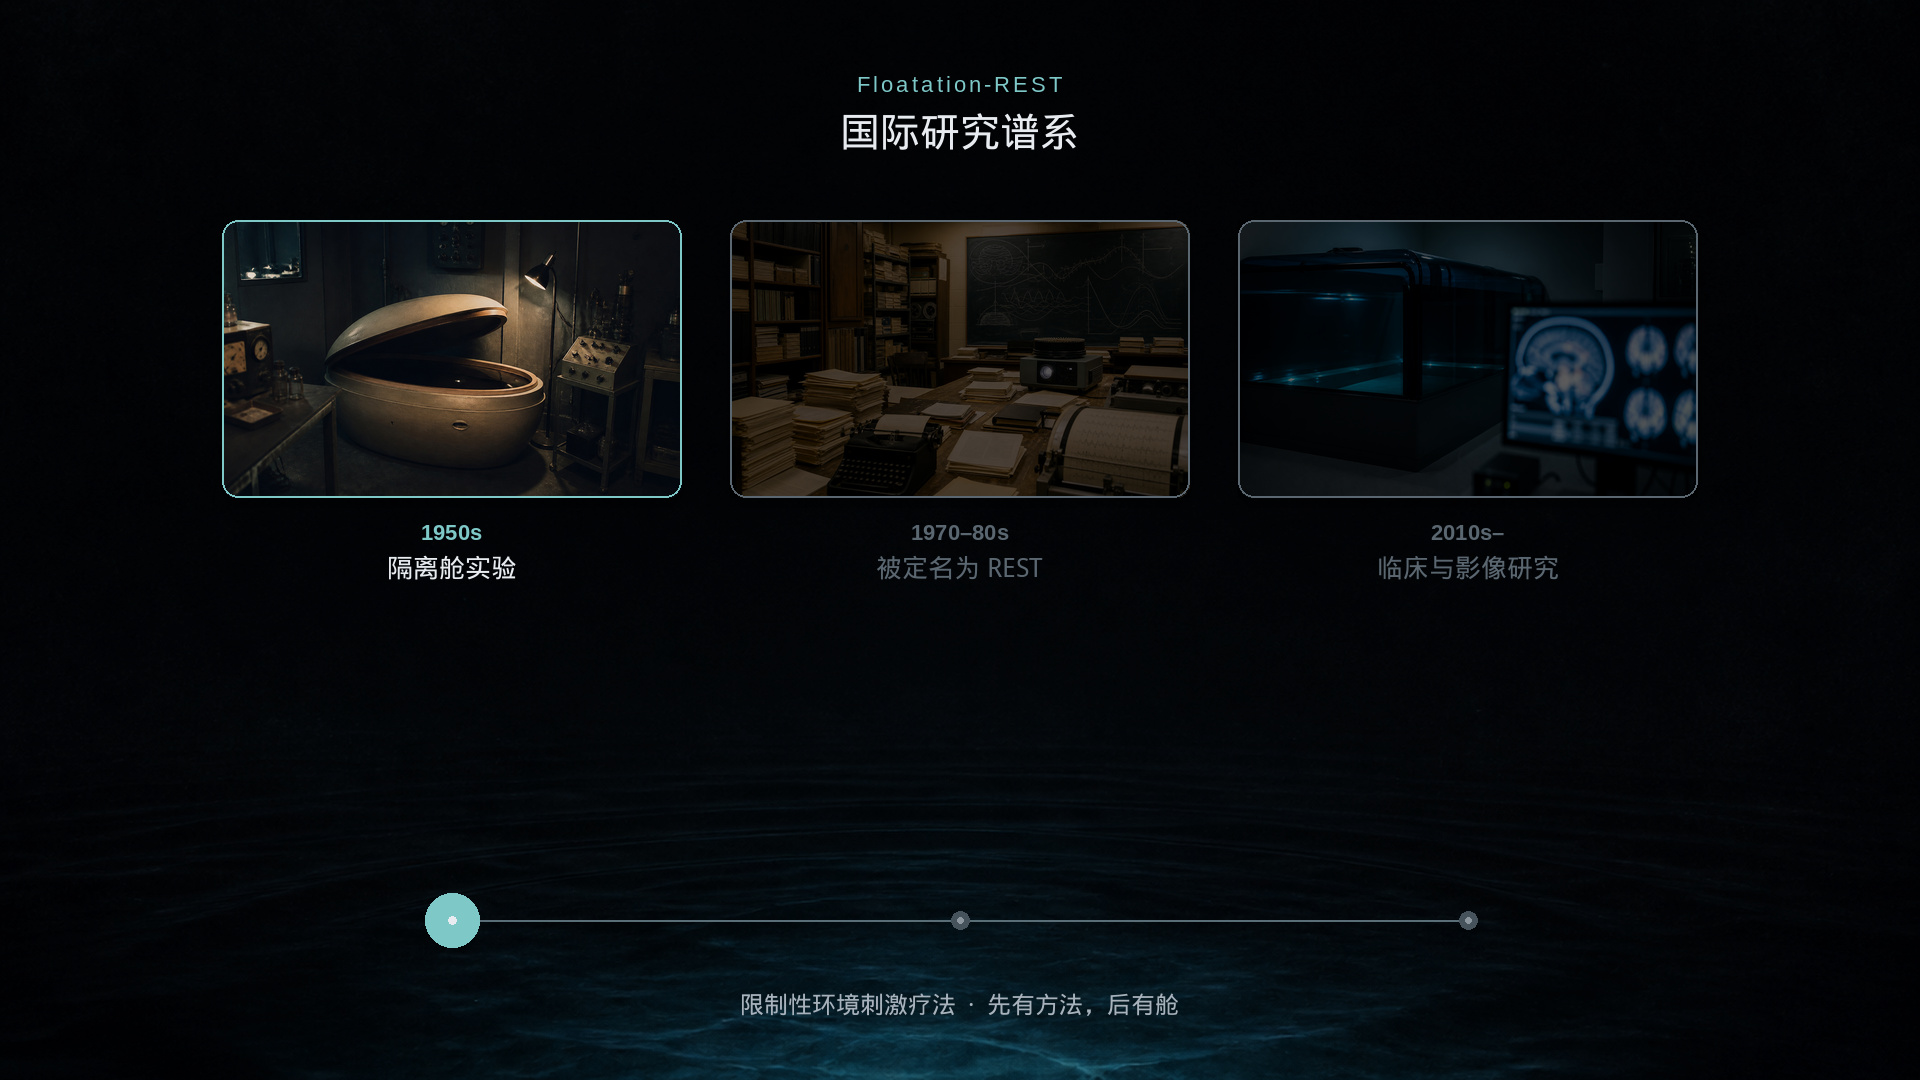
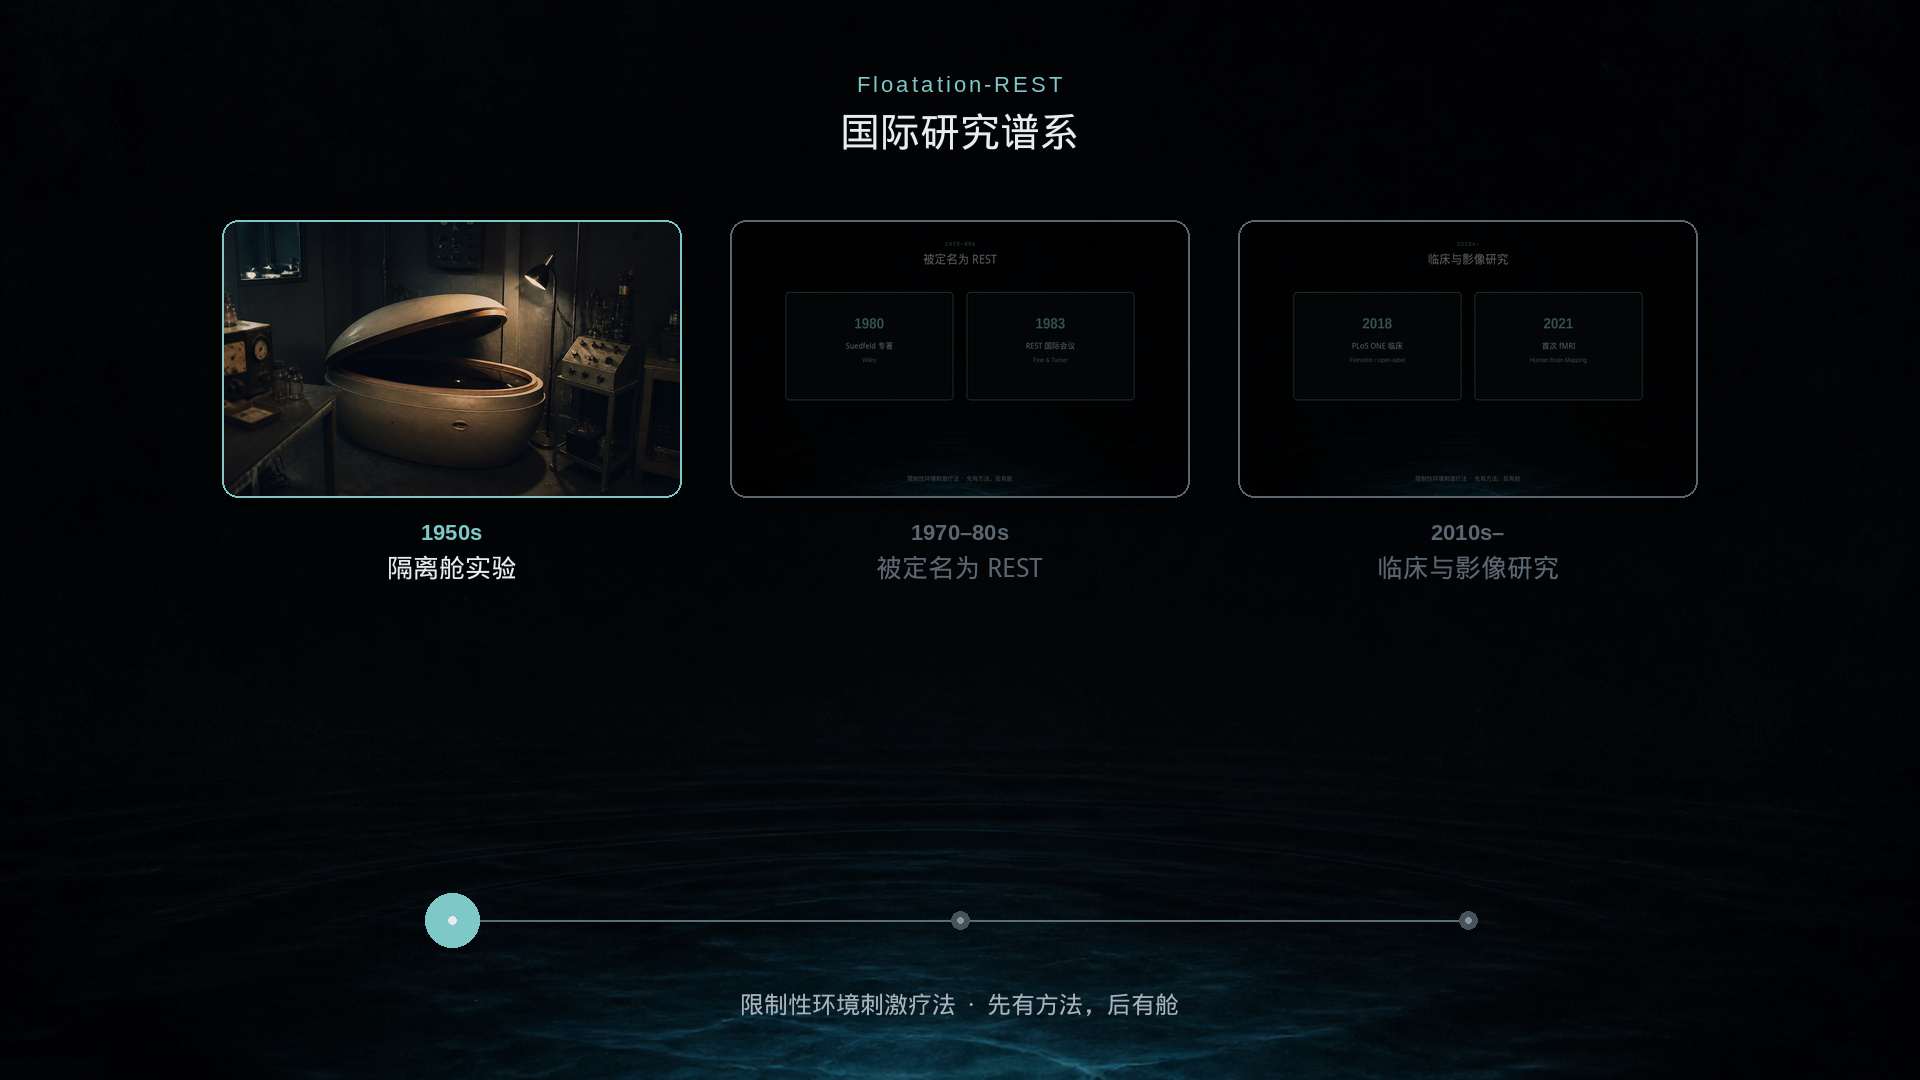
分镜003第三节点改为2018临床与2021首次fMRI两件实事
2010s 不是气氛实验室。画面改成可核验文献卡：Feinstein 等 PLoS ONE 2018 开放标签临床观察，以及 Al Zoubi / Feinstein 等 Human Brain Mapping 2021 首次漂浮 fMRI。

Changed region(s): [[0.375, 0.1833, 0.625, 0.4583], [0.625, 0.1833, 0.9062, 0.4278], [0.6562, 0.3056, 0.75, 0.3667]]

diff --git a/scripts/compose-shot003-stills.py b/scripts/compose-shot003-stills.py
@@ -194,6 +194,194 @@ class ImageEnhanceDummy:
         return Image.alpha_composite(im.convert("RGBA"), overlay)
 
 
+def rounded_rect_card(size, fill, outline, width=1, radius=14):
+    im = Image.new("RGBA", size, (0, 0, 0, 0))
+    d = ImageDraw.Draw(im)
+    d.rounded_rectangle((0, 0, size[0] - 1, size[1] - 1), radius=radius, fill=fill, outline=outline, width=width)
+    return im
+
+
+def naming_event_still(bg: Image.Image):
+    """Historically checkable still: 1980 monograph + 1983 conference. Not a fake archive photo."""
+    base = bg.convert("RGBA")
+    shade = Image.new("RGBA", (W, H), (0, 0, 0, 110))
+    base = Image.alpha_composite(base, shade)
+    d = ImageDraw.Draw(base)
+    f_kicker = font(LATIN, 22)
+    f_title = font(CN, 44)
+    f_year = font(LATIN_B, 22)
+    f_en = font(LATIN, 22)
+    f_en_b = font(LATIN_B, 24)
+    f_cn = font(CN, 26)
+    f_small = font(CN, 22)
+    f_foot = font(CN, 24)
+
+    center_text(d, "1970–80s", 70, f_kicker, TEAL, letter=4)
+    center_text(d, "被定名为 REST", 108, f_title, WHITE)
+    center_text(d, "不是一场开会起名的仪式，是专著和会议把这个名字立住", 172, f_small, MUTED)
+
+    card_w, card_h = 760, 520
+    gap = 48
+    y0 = 230
+    x1 = (W - (2 * card_w + gap)) // 2
+    x2 = x1 + card_w + gap
+
+    def draw_doc(x, badge, badge_cn, lines):
+        card = rounded_rect_card((card_w, card_h), (12, 16, 20, 210), TEAL, 2, 16)
+        base.alpha_composite(card, (x, y0))
+        dd = ImageDraw.Draw(base)
+        dd.rectangle((x + 36, y0 + 36, x + 36 + 8, y0 + 36 + 28), fill=TEAL)
+        dd.text((x + 56, y0 + 36), badge, font=f_year, fill=TEAL)
+        dd.text((x + 56, y0 + 68), badge_cn, font=f_cn, fill=WHITE)
+        yy = y0 + 130
+        for kind, text in lines:
+            fnt = f_en_b if kind == "b" else (f_cn if kind == "cn" else f_en)
+            fill = WHITE if kind in ("b", "cn") else MUTED
+            dd.text((x + 56, yy), text, font=fnt, fill=fill)
+            yy += 42 if kind == "b" else 36
+
+    draw_doc(
+        x1,
+        "1980  ·  MONOGRAPH",
+        "专著把名字写进书名",
+        [
+            ("b", "Peter Suedfeld"),
+            ("en", "Restricted Environmental Stimulation:"),
+            ("en", "Research and Clinical Applications"),
+            ("en", "Wiley, New York, 1980"),
+            ("cn", "REST 从此成为可引用的方法名"),
+        ],
+    )
+    draw_doc(
+        x2,
+        "1983  ·  CONFERENCE",
+        "国际会议开始用这个名字开会",
+        [
+            ("b", "1st International Conference on"),
+            ("en", "REST and Self-Regulation"),
+            ("en", "Fine, T.H. & Turner, J.W. (Eds.)"),
+            ("en", "Proceedings, Toledo, 1983"),
+            ("cn", "漂浮 REST 的早期生理研究在此发表"),
+        ],
+    )
+
+    d = ImageDraw.Draw(base)
+    center_text(d, "限制性环境刺激疗法  ·  先有方法，后有舱", 990, f_foot, MUTED)
+    save(base, "003d-naming-events.jpg")
+    return crop_16x9(Image.open(OUT / "003d-naming-events.jpg"))
+
+
+def clinical_imaging_still(bg: Image.Image):
+    """2018 open-label clinical paper + 2021 first fMRI. Not a fake lab photo."""
+    base = bg.convert("RGBA")
+    shade = Image.new("RGBA", (W, H), (0, 0, 0, 110))
+    base = Image.alpha_composite(base, shade)
+    d = ImageDraw.Draw(base)
+    f_kicker = font(LATIN, 22)
+    f_title = font(CN, 44)
+    f_year = font(LATIN_B, 22)
+    f_en = font(LATIN, 22)
+    f_en_b = font(LATIN_B, 22)
+    f_cn = font(CN, 26)
+    f_small = font(CN, 22)
+    f_foot = font(CN, 24)
+
+    center_text(d, "2010s–", 70, f_kicker, TEAL, letter=4)
+    center_text(d, "临床与影像研究", 108, f_title, WHITE)
+    center_text(d, "不是气氛实验室，是可核验的两篇论文：一次临床观察，一次首次 fMRI", 172, f_small, MUTED)
+
+    card_w, card_h = 760, 520
+    gap = 48
+    y0 = 230
+    x1 = (W - (2 * card_w + gap)) // 2
+    x2 = x1 + card_w + gap
+
+    def draw_doc(x, badge, badge_cn, lines):
+        card = rounded_rect_card((card_w, card_h), (12, 16, 20, 210), TEAL, 2, 16)
+        base.alpha_composite(card, (x, y0))
+        dd = ImageDraw.Draw(base)
+        dd.rectangle((x + 36, y0 + 36, x + 36 + 8, y0 + 36 + 28), fill=TEAL)
+        dd.text((x + 56, y0 + 36), badge, font=f_year, fill=TEAL)
+        dd.text((x + 56, y0 + 68), badge_cn, font=f_cn, fill=WHITE)
+        yy = y0 + 128
+        for kind, text in lines:
+            fnt = f_en_b if kind == "b" else (f_cn if kind == "cn" else f_en)
+            fill = WHITE if kind in ("b", "cn") else MUTED
+            dd.text((x + 56, yy), text, font=fnt, fill=fill)
+            yy += 40 if kind == "b" else 34
+
+    draw_doc(
+        x1,
+        "2018  ·  CLINICAL",
+        "开放标签临床观察（不是 RCT）",
+        [
+            ("b", "Feinstein, Khalsa, Yeh et al."),
+            ("en", "Examining the short-term anxiolytic"),
+            ("en", "and antidepressant effect of"),
+            ("en", "Floatation-REST"),
+            ("en", "PLoS ONE  2018  ·  NCT03051074"),
+            ("cn", "Laureate 研究所 · 50 人 · 状态焦虑下降"),
+        ],
+    )
+    draw_doc(
+        x2,
+        "2021  ·  fMRI",
+        "首次漂浮功能影像研究",
+        [
+            ("b", "Al Zoubi, Misaki, Bodurka,"),
+            ("en", "Feinstein et al."),
+            ("en", "Taking the body off the mind"),
+            ("en", "Human Brain Mapping  2021"),
+            ("en", "DOI 10.1002/hbm.25429"),
+            ("cn", "漂浮前后静息态 fMRI · DMN 连接变化"),
+        ],
+    )
+
+    d = ImageDraw.Draw(base)
+    center_text(d, "限制性环境刺激疗法  ·  先有方法，后有舱", 990, f_foot, MUTED)
+    save(base, "003e-clinical-imaging.jpg")
+    return crop_16x9(Image.open(OUT / "003e-clinical-imaging.jpg"))
+
+
+def compact_event_still(bg, kicker, title, left, right, filename):
+    """Readable timeline thumb: two big year blocks, not a squeezed document page."""
+    base = bg.convert("RGBA")
+    shade = Image.new("RGBA", (W, H), (0, 0, 0, 100))
+    base = Image.alpha_composite(base, shade)
+    d = ImageDraw.Draw(base)
+    f_kicker = font(LATIN, 22)
+    f_title = font(CN, 48)
+    f_year = font(LATIN_B, 56)
+    f_cn = font(CN, 32)
+    f_en = font(LATIN, 24)
+    center_text(d, kicker, 80, f_kicker, TEAL, letter=4)
+    center_text(d, title, 124, f_title, WHITE)
+    card_w, card_h = 700, 420
+    gap = 56
+    y0 = 280
+    x1 = (W - (2 * card_w + gap)) // 2
+    x2 = x1 + card_w + gap
+    f_foot = font(CN, 24)
+
+    def block(x, year, cn, en):
+        card = rounded_rect_card((card_w, card_h), (12, 16, 20, 210), TEAL, 2, 16)
+        base.alpha_composite(card, (x, y0))
+        dd = ImageDraw.Draw(base)
+        tw, _ = text_size(dd, year, f_year)
+        dd.text((x + (card_w - tw) // 2, y0 + 90), year, font=f_year, fill=TEAL)
+        tw, _ = text_size(dd, cn, f_cn)
+        dd.text((x + (card_w - tw) // 2, y0 + 190), cn, font=f_cn, fill=WHITE)
+        tw, _ = text_size(dd, en, f_en)
+        dd.text((x + (card_w - tw) // 2, y0 + 250), en, font=f_en, fill=MUTED)
+
+    block(x1, *left)
+    block(x2, *right)
+    d = ImageDraw.Draw(base)
+    center_text(d, "限制性环境刺激疗法  ·  先有方法，后有舱", 990, f_foot, MUTED)
+    save(base, filename)
+    return crop_16x9(Image.open(OUT / filename))
+
+
 def full_node(photo: Image.Image, year: str, label: str, name: str):
     base = crop_16x9(photo).convert("RGBA")
     grad = Image.new("RGBA", (W, H), (0, 0, 0, 0))
@@ -247,12 +435,32 @@ def main():
         crop_16x9(Image.open(source_dir / src_name)).save(plate_dir / dst, "JPEG", quality=92)
 
     chapter_card(void)
+    naming = naming_event_still(void)
+    clinical = clinical_imaging_still(void)
+    naming_thumb = compact_event_still(
+        void,
+        "1970–80s",
+        "被定名为 REST",
+        ("1980", "Suedfeld 专著", "Wiley"),
+        ("1983", "REST 国际会议", "Fine & Turner"),
+        "003d-naming-compact.jpg",
+    )
+    clinical_thumb = compact_event_still(
+        void,
+        "2010s–",
+        "临床与影像研究",
+        ("2018", "PLoS ONE 临床", "Feinstein / open-label"),
+        ("2021", "首次 fMRI", "Human Brain Mapping"),
+        "003e-imaging-compact.jpg",
+    )
+    thumbs = [t1950, naming_thumb, clinical_thumb]
     timeline(void, thumbs, 1, "003b-timeline-01.jpg")
     timeline(void, thumbs, 2, "003b-timeline-02.jpg")
     timeline(void, thumbs, 3, "003b-timeline-03.jpg")
     full_node(t1950, "1950s", "隔离舱实验", "003c-1950s.jpg")
-    full_node(t1970, "1970–80s", "被定名为 REST", "003d-1970s.jpg")
-    full_node(t2010, "2010s–", "临床与影像研究", "003e-2010s.jpg")
+    full_node(t1970, "1970–80s", "被定名为 REST", "003d-1970s-broll.jpg")
+    full_node(t2010, "2010s–", "临床与影像研究", "003e-2010s-broll.jpg")
+    _ = naming, clinical
 
 
 if __name__ == "__main__":

diff --git a/exports/宣传片_第一章_国际研究基础_分镜003-005.md b/exports/宣传片_第一章_国际研究基础_分镜003-005.md
@@ -37,6 +37,7 @@
   - 「1970–80s　被定名为 REST」
     （不要写「进入学术命名」。意思是：隔离舱实验之后，研究者给这种方法起了学名 REST，即限制性环境刺激疗法，后来才有论文和试验可引用。）
   - 「2010s–　临床与影像研究」
+    可核验事件两件：① 2018 Feinstein 等，PLoS ONE，Laureate 研究所，开放标签（不是 RCT），50 人，状态焦虑下降；② 2021 Al Zoubi / Feinstein 等，Human Brain Mapping，漂浮 REST 的首次 fMRI。不要用假实验室照片冒充试验现场，不要扫描论文 PDF 内页。
 - 底部一行：「限制性环境刺激疗法 · 先有方法，后有舱」
 
 **旁白：**（章节卡约 2.5 秒无声，其后约 9.5 秒）
@@ -54,7 +55,12 @@
 | 0:36–0:39 | 点亮第二点 | `003b-timeline-02.jpg` |
 | 0:39–0:42 | 三点全亮 | `003b-timeline-03.jpg` |
 
-若剪辑要更有体量，可在对应节点切 0.8–1.2 秒全幅：`003c-1950s.jpg`、`003d-1970s.jpg`、`003e-2010s.jpg`。这些是原创学术静帧，不是历史档案照、也不是论文封面，可直接进片。重新出图：`python3 scripts/compose-shot003-stills.py`。
+若剪辑要更有体量，在第二、第三节点切全幅文献卡：
+
+- 1970–80s：`003d-naming-events.jpg`（1980 Suedfeld 专著 + 1983 REST 国际会议）
+- 2010s–：`003e-clinical-imaging.jpg`（2018 PLoS ONE 临床 + 2021 首次 fMRI）
+
+办公室/舱体气氛图只作垫底：`003d-1970s-broll.jpg`、`003e-2010s-broll.jpg`，不要写成试验现场。重新出图：`python3 scripts/compose-shot003-stills.py`。
 
 ---
 

diff --git a/PROJECT.md b/PROJECT.md
@@ -618,7 +618,7 @@ npm run serve          # 或 PORT=43123 bash scripts/keep-alive-server.sh
 
 | 日期 | 变更 |
 |------|------|
-| 2026-09-06 | **宣传片第一章分镜 003 画面**：补 16:9 原创静帧（章节卡 + 时间轴三点依次点亮 + 三节点全幅），目录 `exports/video-assets/shot003/`。不是历史档案照或论文封面。第二节点字幕由费解的「进入学术命名」改为「被定名为 REST」。 |
+| 2026-09-06 | **宣传片第一章分镜 003 画面**：补 16:9 原创静帧。第二节点改为可核验事件卡（1980 Suedfeld 专著 + 1983 REST 国际会议）；第三节点改为 2018 Feinstein PLoS ONE 临床（开放标签）+ 2021 Al Zoubi 等 Human Brain Mapping 首次 fMRI。目录 `exports/video-assets/shot003/`。 |
 | 2026-08-22 | 初始搭建：导入/总库/编排/PPT/冲突检测 |
 | 2026-08-22 | Claude 导入：杨浦财务 54 条 + B端定稿 50 条 |
 | 2026-08-22 | 新增来源管理、删除按钮、keep-alive 服务 |

diff --git a/exports/video-assets/shot003/README.md b/exports/video-assets/shot003/README.md
@@ -1,11 +1,14 @@
 # 分镜 003 画面（16:9）
 
-给剪辑用。不是历史照片，不是期刊封面。
+给剪辑用。第二、第三节点用可核验文献事件卡，不要用假实验室照片冒充历史现场。
 
 建议顺序：
 
 1. `003a-chapter-card.jpg` 约 2.5 秒
 2. `003b-timeline-01.jpg` → `02` → `03` 三点依次点亮
-3. 可选切全幅 `003c-1950s.jpg` / `003d-1970s.jpg` / `003e-2010s.jpg`
+3. 第二节点全幅：`003d-naming-events.jpg`（1980 专著 + 1983 会议）
+4. 第三节点全幅：`003e-clinical-imaging.jpg`（2018 临床 + 2021 首次 fMRI）
+
+气氛垫底（不是事件本身）：`003d-1970s-broll.jpg`、`003e-2010s-broll.jpg`
 
 重新出图：`python3 scripts/compose-shot003-stills.py`
